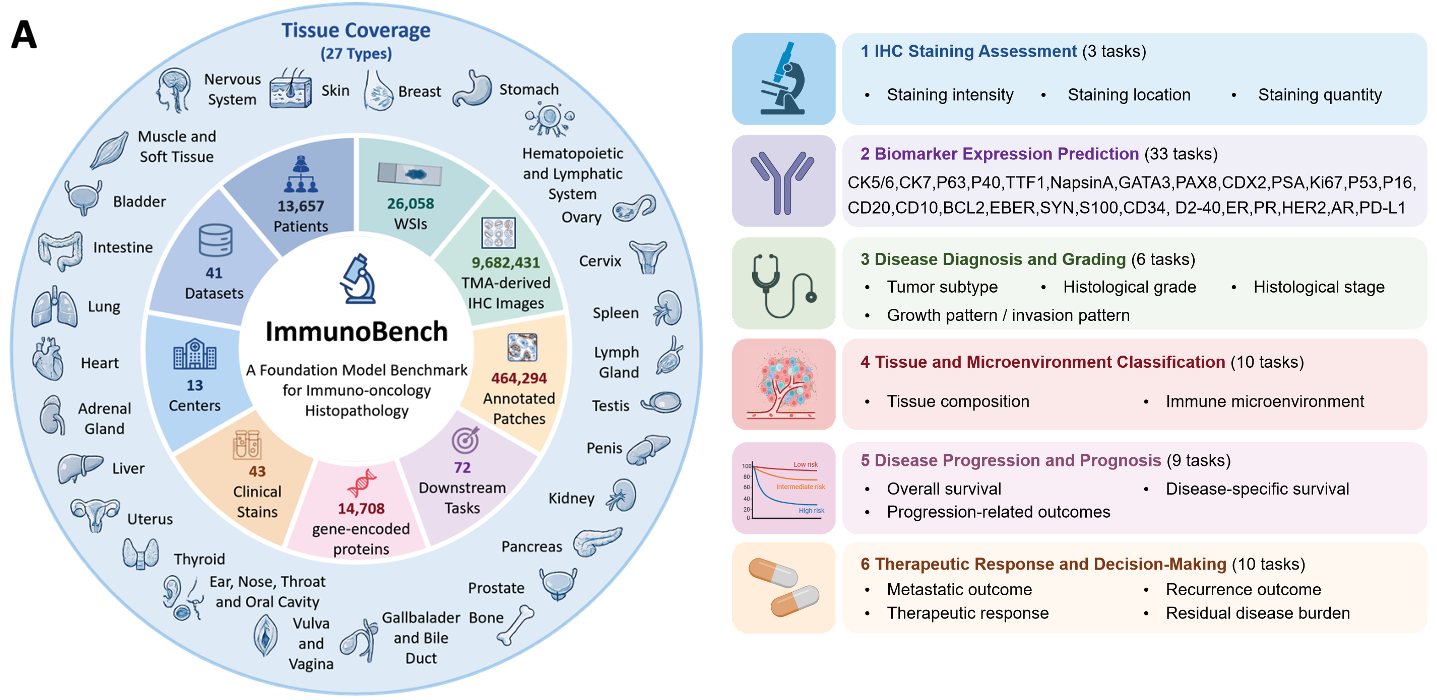
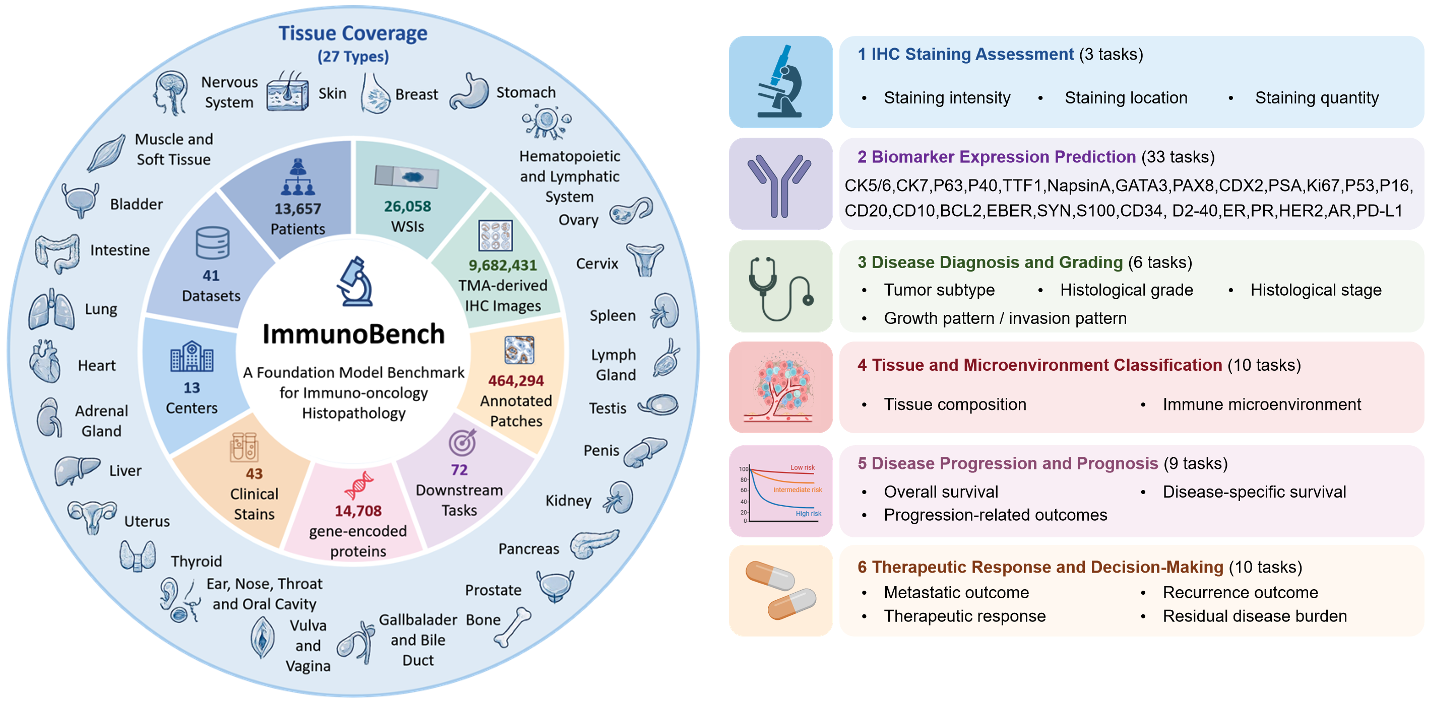
1

diff --git a/README.md b/README.md
@@ -8,11 +8,11 @@
 
 ## Overview
 
-Immunohistochemistry (IHC) provides spatially resolved protein-expression information that links tissue morphology to molecular phenotype and supports tumour classification, biomarker assessment, prognostic stratification, and therapeutic decision-making. While pathology foundation models (PFMs) have shown strong transferability in hematoxylin and eosin (H&E)-based tasks, their ability to encode IHC-derived molecular and functional signals remains insufficiently evaluated. ImmunoBench is a large-scale, multi-institutional benchmark for evaluating PFMs in IHC-centered pathology workflows, integrating data from `13,657` patients, `26,058` whole-slide images (WSIs), `9,682,431` TMA-derived IHC images, and `464,294` annotated patches across `13` institutions, `27` organs, `43` clinical stains, and `14,708` gene-encoded proteins.
-
-ImmunoBench evaluates `14` representative PFMs across `71` clinically relevant endpoints, including IHC staining assessment, biomarker prediction, disease diagnosis and grading, tissue microenvironment classification, prognosis, and treatment response prediction, under IHC-only, H&E-only, multi-stain, and external validation settings. PFMs perform strongly on local morphology and spatially coherent staining signals, but remain less reliable on sparse, heterogeneous, and outcome-related endpoints such as vascular markers, PD-L1, prognosis, and treatment response. Patch-level models generally outperform WSI-level models in local IHC recognition tasks, whereas neither paradigm achieves robust performance on prognosis or treatment-response endpoints.
-
-Beyond model comparison, ImmunoBench provides curated dataset subsets, standardized evaluation protocols, pre-extracted PFM embeddings, and a dynamic leaderboard, enabling reproducible evaluation of future models in consistent IHC-centered settings.
+> **ABSTRACT**
+>
+> *Immunohistochemistry (IHC) provides spatially resolved protein-expression information that links tissue morphology to molecular phenotype and supports tumour classification, biomarker assessment, prognostic stratification and therapeutic decision-making. While pathology foundation models (PFMs) have shown strong transferability in hematoxylin and eosin (H&E)-based tasks, their ability to encode IHC-derived molecular and functional signals remains insufficiently evaluated. Here we introduce ImmunoBench, a large-scale, multi-institutional benchmark for evaluating PFMs in IHC-centered pathology workflows. ImmunoBench integrates data from 13,657 patients, 26,058 whole-slide images (WSIs), 9,682,431 TMA-derived IHC images and 464,294 annotated patches, collected across 13 institutions, covering 27 organs, 43 clinical stains and 14,708 gene-encoded proteins. We evaluate 14 representative PFMs across 71 clinically relevant endpoints, including IHC staining assessment, biomarker prediction, disease diagnosis and grading, tissue microenvironment classification, prognosis and treatment response prediction, with IHC-only, H&E-only, multi-stain and external validation settings.*
+>
+> *Across tasks, PFMs performed strongly on local morphology and spatially coherent staining signals, including staining localization, tissue microenvironment classification, lineage markers and breast-specific biomarkers, but showed lower and more variable performance on sparse, heterogeneous and outcome-related endpoints such as vascular markers, PD-L1, prognosis and treatment response. Patch-level models generally outperformed WSI-level models in local IHC recognition tasks, whereas neither paradigm achieved robust performance on prognosis or treatment-response endpoints. IHC-aware and multimodal pretraining provided selective rather than universal benefits, and external validation revealed marker-dependent cross-center degradation. Together, ImmunoBench delineates current PFM capabilities and limitations in molecularly informative pathology and provides an open ecosystem with curated datasets, standardized protocols, pre-extracted embeddings and a dynamic leaderboard for reproducible model development.*
 
 ## Installation
 
@@ -73,7 +73,7 @@ Examples:
 ImmunoBench covers six task categories. Users should prepare data and run the corresponding scripts step by step.
 
 <p align="left">
-  <img src="figures/Fig1c.png" alt="ImmunoBench Task Categories" width="50%">
+  <img src="figures/Fig1c.png" alt="ImmunoBench Task Categories" width="100%">
 </p>
 
 ### 1. Immunohistochemical Staining Assessment
@@ -119,7 +119,16 @@ ImmunoBench covers six task categories. Users should prepare data and run the co
    bash train_scripts/subtype_HANCOCK_grading_IHC.sh
    ```
 
-### 4. Disease Progression and Prognosis
+### 4. Tissue and Tumor Microenvironment Classification
+   
+   `HNSCC_mIF_mIHC_CD8`
+   
+   **Example**:
+   ```bash
+   bash train_scripts/patch_HNSCC_mIF_mIHC_CD8.sh
+   ```
+
+### 5. Disease Progression and Prognosis
    
    `DLBCL_Morph`
    
@@ -128,7 +137,7 @@ ImmunoBench covers six task categories. Users should prepare data and run the co
    bash train_scripts/survival_DLBCL_Morph.sh
    ```
 
-### 5. Therapeutic Response and Decision-Making
+### 6. Therapeutic Response and Decision-Making
    
    `HANCOCK_Chemotherapy_Recurrence`
    
@@ -139,16 +148,7 @@ ImmunoBench covers six task categories. Users should prepare data and run the co
    bash train_scripts/subtype_HANCOCK_Chemotherapy_Recurrence_IHC.sh
    ```
 
-### 6. Tissue and Tumor Microenvironment Classification
-   
-   `HNSCC_mIF_mIHC_CD8`
-   
-   **Example**:
-   ```bash
-   bash train_scripts/patch_HNSCC_mIF_mIHC_CD8.sh
-   ```
-
-For tasks 1 to 5, results are written under `results/experiments/train/splits712/`. For task 6, results are written under `results/experiments/train/patch/`. Logs are written under `logs/`.
+Most tasks write results under `results/experiments/train/splits712/`. The patch-level tissue and tumor microenvironment classification task writes results under `results/experiments/train/patch/`. Logs are written under `logs/`.
 
 ## Training Notes
 
